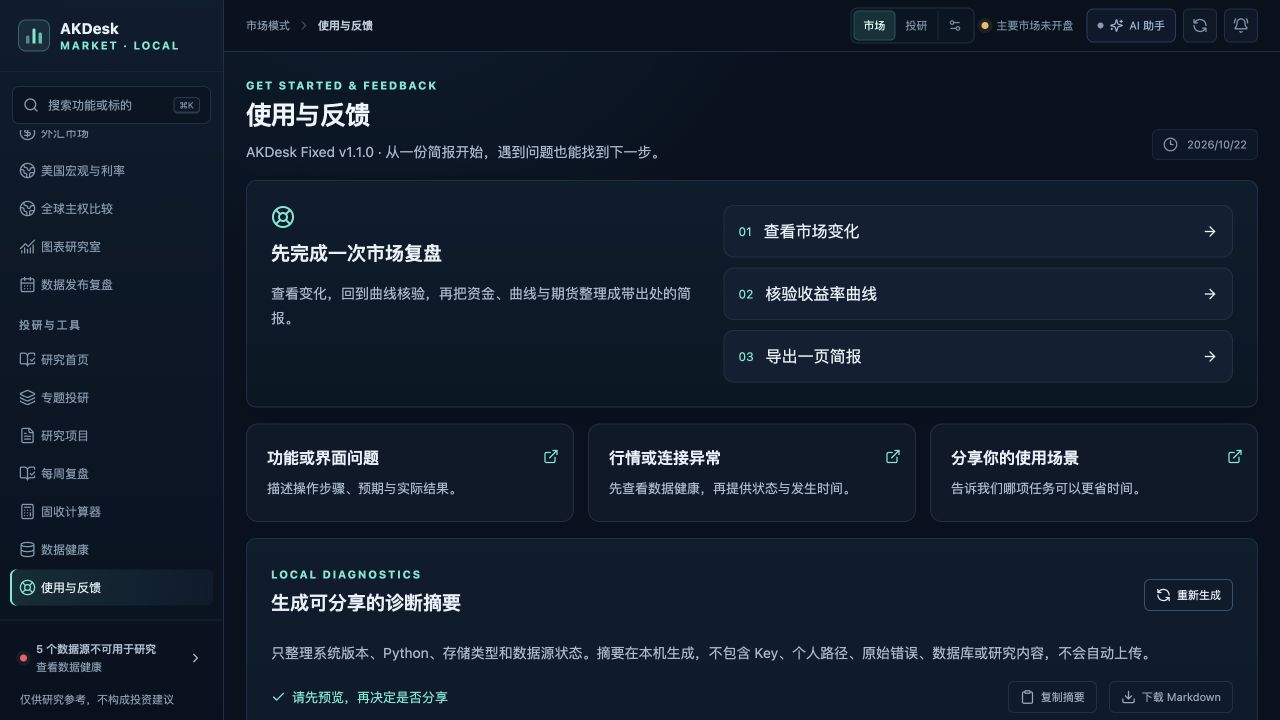
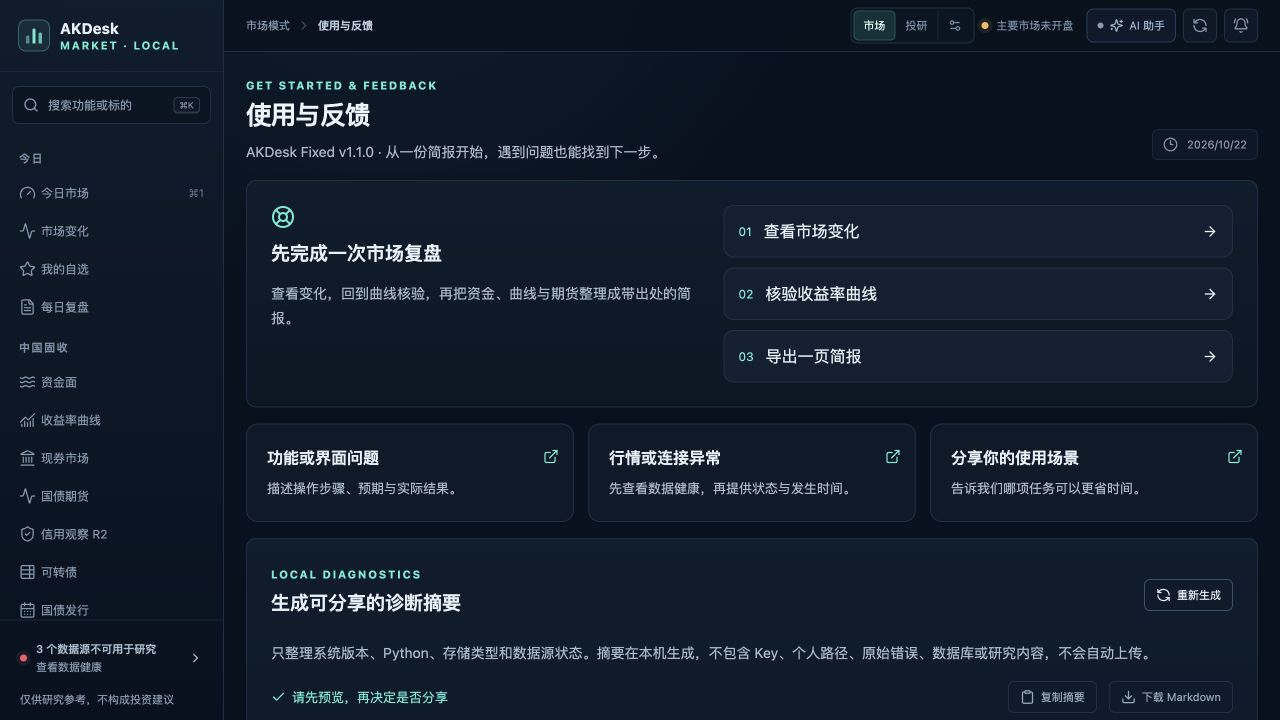
test: isolate concurrent lazy chart imports in demo regression

Changed region(s): [[0.0, 0.1833, 0.0938, 0.8556]]

diff --git a/frontend/src/demo/DemoApp.test.tsx b/frontend/src/demo/DemoApp.test.tsx
@@ -1,26 +1,46 @@
 // @vitest-environment jsdom
 import { cleanup, fireEvent, render, screen, waitFor } from "@testing-library/react";
 import userEvent from "@testing-library/user-event";
-import { afterEach, beforeEach, describe, expect, it, vi } from "vitest";
-import { DemoApp } from "./DemoApp";
+import { afterAll, afterEach, beforeAll, beforeEach, describe, expect, it, vi } from "vitest";
 import { DEMO_BRIEF, DEMO_CURVE } from "./demoData";
 import { briefMarkdown } from "../brief";
+import { BarChart, LineChart } from "../components/Charts";
 
-vi.mock("../components/Charts", () => ({
-  LineChart: ({ series }: { series: Array<{ name: string }> }) => <div aria-label="示例曲线图">{series.map((item) => item.name).join(" / ")}</div>,
-  BarChart: () => <div aria-label="示例变动图" />,
-}));
+vi.mock("../components/Charts", async (importOriginal) => {
+  const charts = await importOriginal<typeof import("../components/Charts")>();
+  // Replace the actual exports too: concurrent lazy imports can receive the
+  // original namespace from Vitest while another import resolves its mock.
+  return {
+    ...charts,
+    LineChart: vi.spyOn(charts, "LineChart").mockImplementation(({ series }) => <div role="img" aria-label="示例曲线图">{series.map((item) => item.name).join(" / ")}</div>),
+    BarChart: vi.spyOn(charts, "BarChart").mockImplementation(() => <div role="img" aria-label="示例变动图" />),
+  };
+});
+
+let DemoApp: typeof import("./DemoApp")["DemoApp"];
+
+beforeAll(async () => {
+  // Resolve the mocked module before DemoApp creates its two lazy chart imports.
+  // Otherwise a pending chart import can outlive a fast route change in jsdom.
+  expect(BarChart).toBeDefined();
+  expect(LineChart).toBeDefined();
+  const chartModules = await Promise.all([import("../components/Charts"), import("../components/Charts")]);
+  chartModules.forEach((module) => expect(module.BarChart).toBe(BarChart));
+  ({ DemoApp } = await import("./DemoApp"));
+});
 
 beforeEach(() => {
   window.history.replaceState(null, "", "/akdesk-fixed/#/overview");
   vi.spyOn(window, "scrollTo").mockImplementation(() => undefined);
   vi.stubGlobal("fetch", vi.fn(() => Promise.reject(new Error("Demo must not request a backend"))));
 });
-afterEach(() => {
+afterEach(async () => {
   cleanup();
-  vi.restoreAllMocks();
+  await vi.dynamicImportSettled();
+  vi.clearAllMocks();
   vi.unstubAllGlobals();
 });
+afterAll(() => vi.restoreAllMocks());
 
 describe("static GitHub demo", () => {
   it("completes the sample workflow without calling any backend", async () => {
@@ -37,6 +57,9 @@ describe("static GitHub demo", () => {
     expect(screen.queryByRole("heading", { name: "短端资金分化，隔夜利率下行" })).toBeNull();
     await user.click(screen.getByRole("button", { name: "核验收益率曲线" }));
     await screen.findByRole("heading", { name: "曲线核验" });
+    // Exercise both lightweight chart replacements, never ECharts/canvas effects.
+    await screen.findByRole("img", { name: "示例曲线图" });
+    await screen.findByRole("img", { name: "示例变动图" });
     await user.selectOptions(screen.getByLabelText("查看曲线"), "policy");
     await waitFor(() => expect(screen.getByLabelText("示例曲线图").textContent).toContain("国开债 · 固定样例"));
     expect((screen.getByRole("checkbox", { name: "对照国债前值" }) as HTMLInputElement).disabled).toBe(true);

diff --git a/docs/audits/v1.1.0/startup-verification.md b/docs/audits/v1.1.0/startup-verification.md
@@ -72,6 +72,12 @@ b86b40f21ee09255d6630465e096d0068b4e38c7d914c7ef68c77381e82ab60a
 
 候选包后续会因收录本验收文档而重新生成。最终发布应核对应用代码、启动脚本和锁文件未变，并登记最终包哈希；如这些核心内容变化，需要重新执行受影响门禁，不能直接把候选哈希当作最终包哈希。
 
+### 诊断单文件修复后的复核
+
+后续页面验收发现诊断状态表达需校准。停止临时QA服务后，仅将解压副本的 `backend/app/diagnostics.py` 替换为仓库修复版本，逐字节确认一致；没有重装依赖或修改锁文件。此时解压副本已不等同于上方候选ZIP的完整原始字节内容，最终包需重新生成。
+
+同一隔离环境重启后：首次诊断的15个`not_checked`来源全部显示`trust_level=unavailable`；主动请求资金、曲线与期货三个demo模块后，再次诊断确认这3项均为`error_category=demo_mode`且可信状态为unavailable，其余12个未检查项仍为unavailable，版本保持1.1.0。该检查验证新诊断逻辑；原有干净安装的依赖匹配与启停结论不被用来替代此项复核。
+
 ## 未覆盖与后续门禁
 
 - 第二轮已覆盖本环境、提供有效CA条件下的候选ZIP真实安装，但不能推导Python3.11/3.12全新环境、其他网络/地区的PyPI可用性、证书缺失后的实际恢复、Finder首次安全提示或真实Keychain授权。
